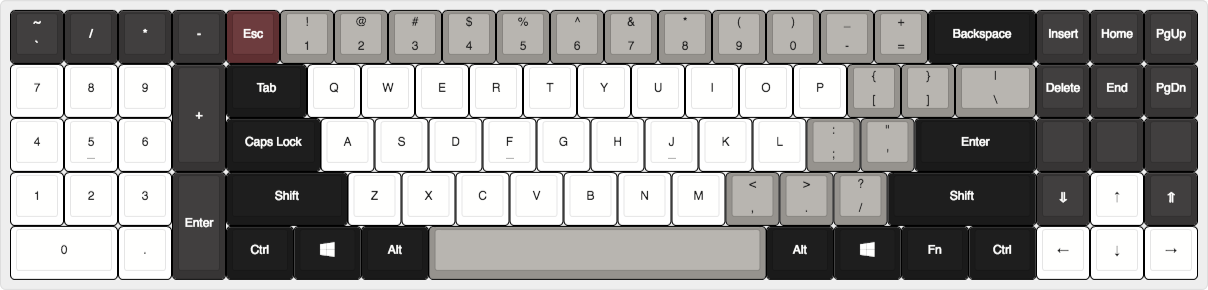
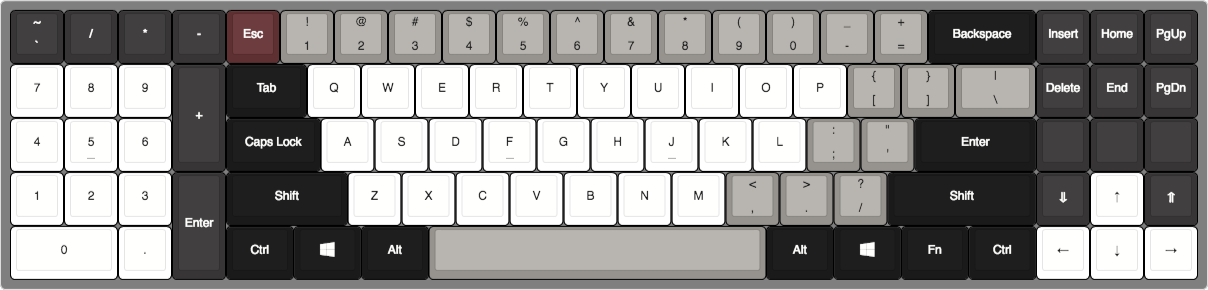
2017.11.10 Update
- Updated README with more information
- Updated layout slightly
- Added a KiCad library for MCU

diff --git a/README.md b/README.md
@@ -4,13 +4,26 @@ Custom mechanical keyboard: PCB, firmware, and models.
 ## Layout
 ![Layout](./Layout/JayKey1.png?raw=true)
 
-## Components
-- [Atmel AT90USB1286](http://www.microchip.com/wwwproducts/en/AT90USB1286)
+## Parts
+#### Components on PCB
+- [Atmel's AT90USB1286](http://www.microchip.com/wwwproducts/en/AT90USB1286)
+
+#### Switches & Accessories
+- [Zeal PC's 67g Tealios](https://zealpc.net/collections/accessories/products/tealios) for shift, ctrl, OS, alt, fn, and layer keys
+- [Zeal PC's 67g Zealios](https://zealpc.net/collections/accessories/products/zealio) for all other keys
+- [Zeal PC's Zealencio Silencing Clips](https://zealpc.net/collections/accessories/products/zealencio)
+- [Zeal PC's Transparent Gold Plated Stabilizers](https://zealpc.net/collections/accessories/products/zealstabilizers)
 
 ## Tools
 - Layout: [Keyboard Layout Editor](http://www.keyboard-layout-editor.com/)
 - PCB: [KiCad EDA](http://kicad-pcb.org/)
 - Models: [Plate & Case Builder](http://builder.swillkb.com/)
+
+#### KiCad Libraries
+- [kicad_lib_tmk](https://github.com/tmk/kicad_lib_tmk)
+- [keyboard_parts.pretty](https://github.com/tmk/keyboard_parts.pretty)
+- [keebs.pretty](https://github.com/egladman/keebs.pretty)
+- [doragasu-kicad-lib](https://github.com/doragasu/doragasu-kicad-lib)
 
 ## References
 - Layout: [Physical Keyboard Layouts Explained In Detail](https://www.massdrop.com/talk/947/keyboard-layouts-explained-in-detail-many-pics)
